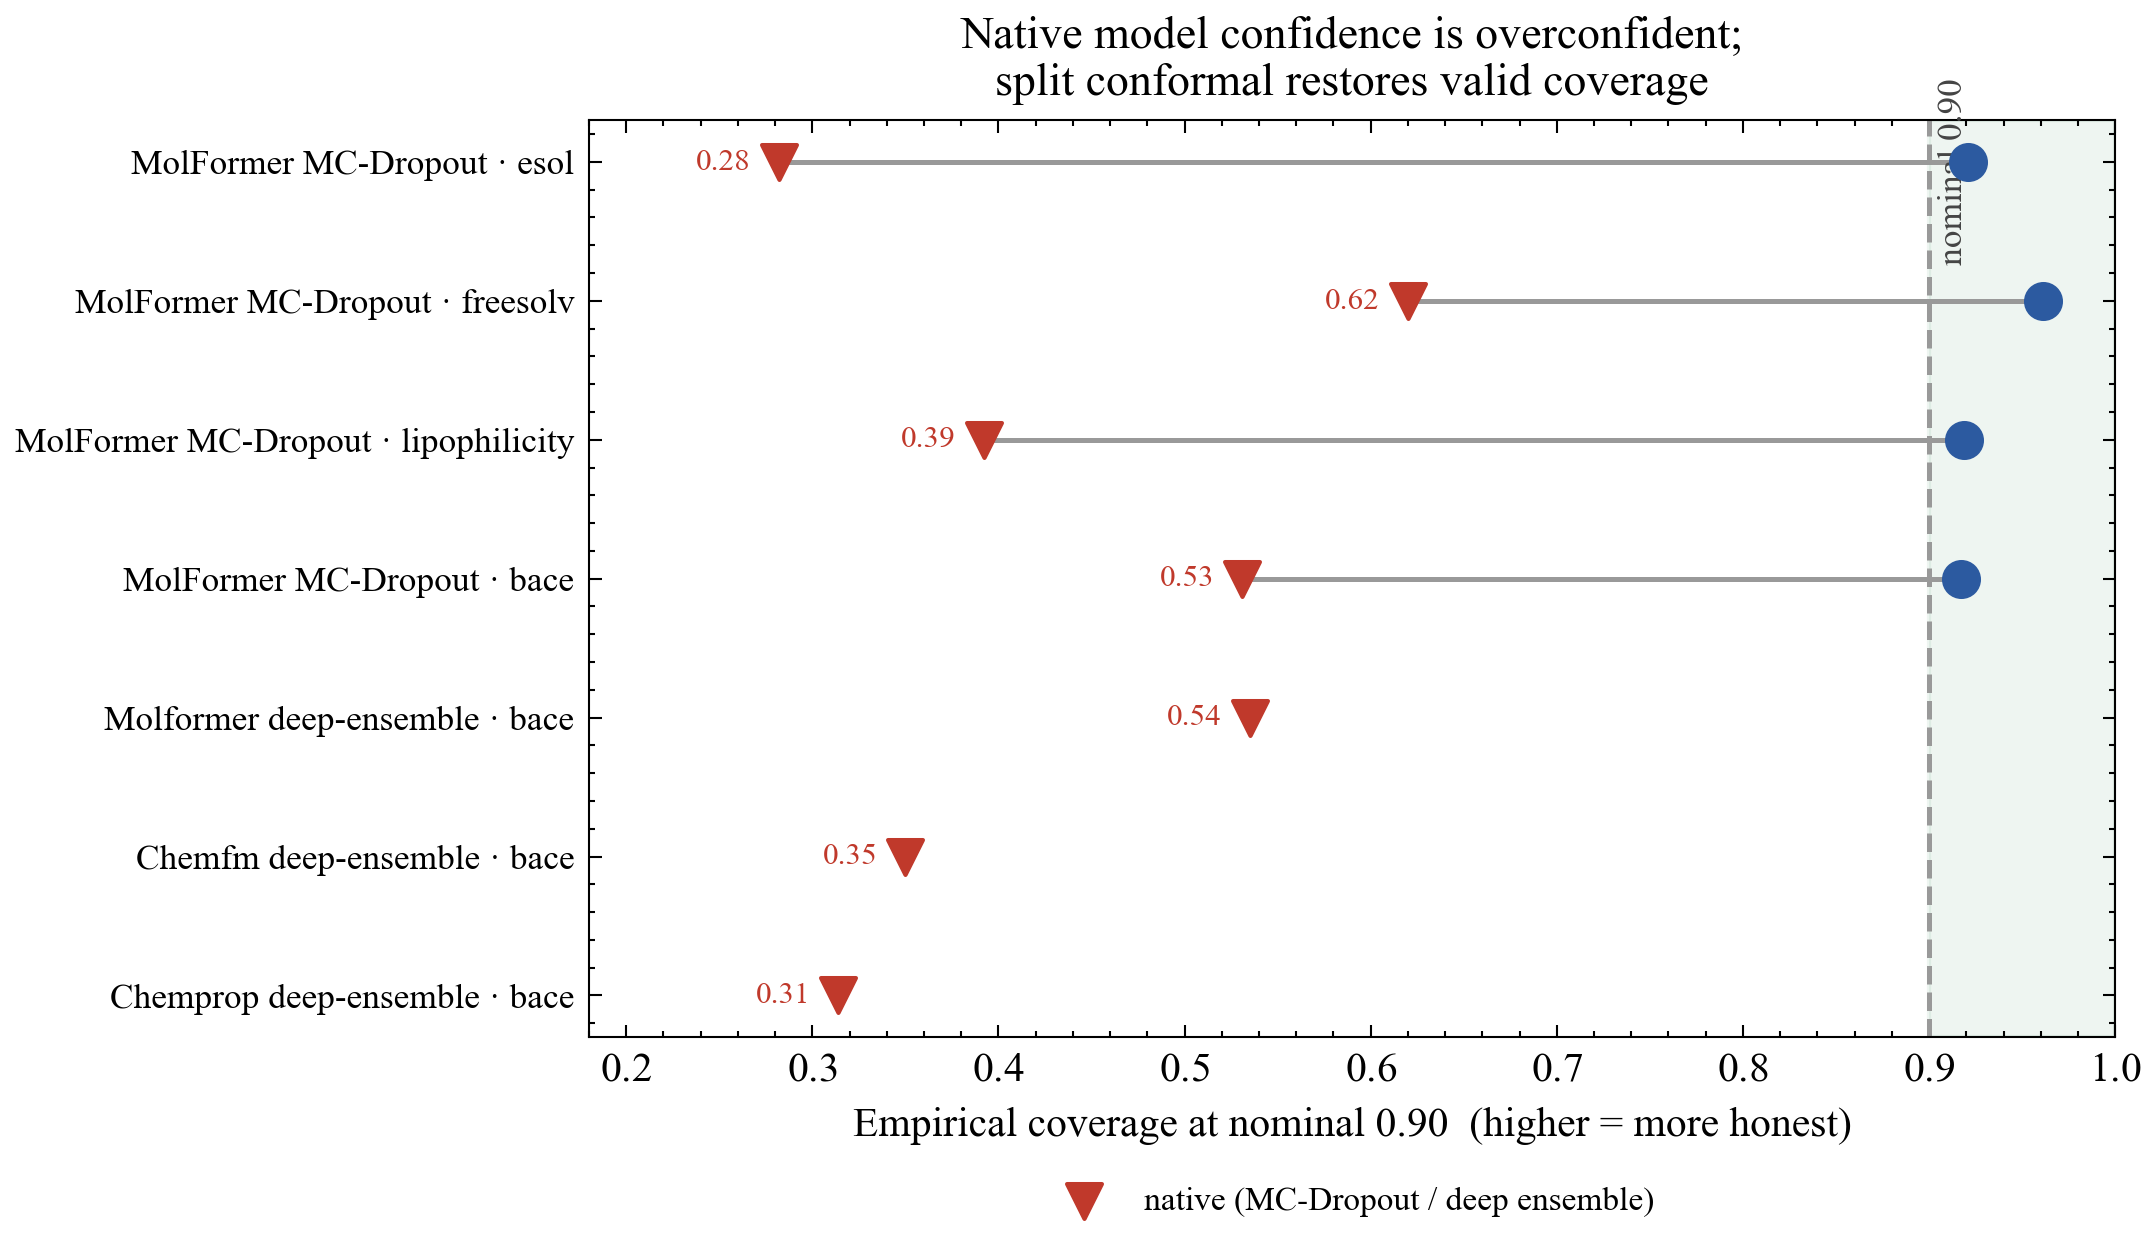
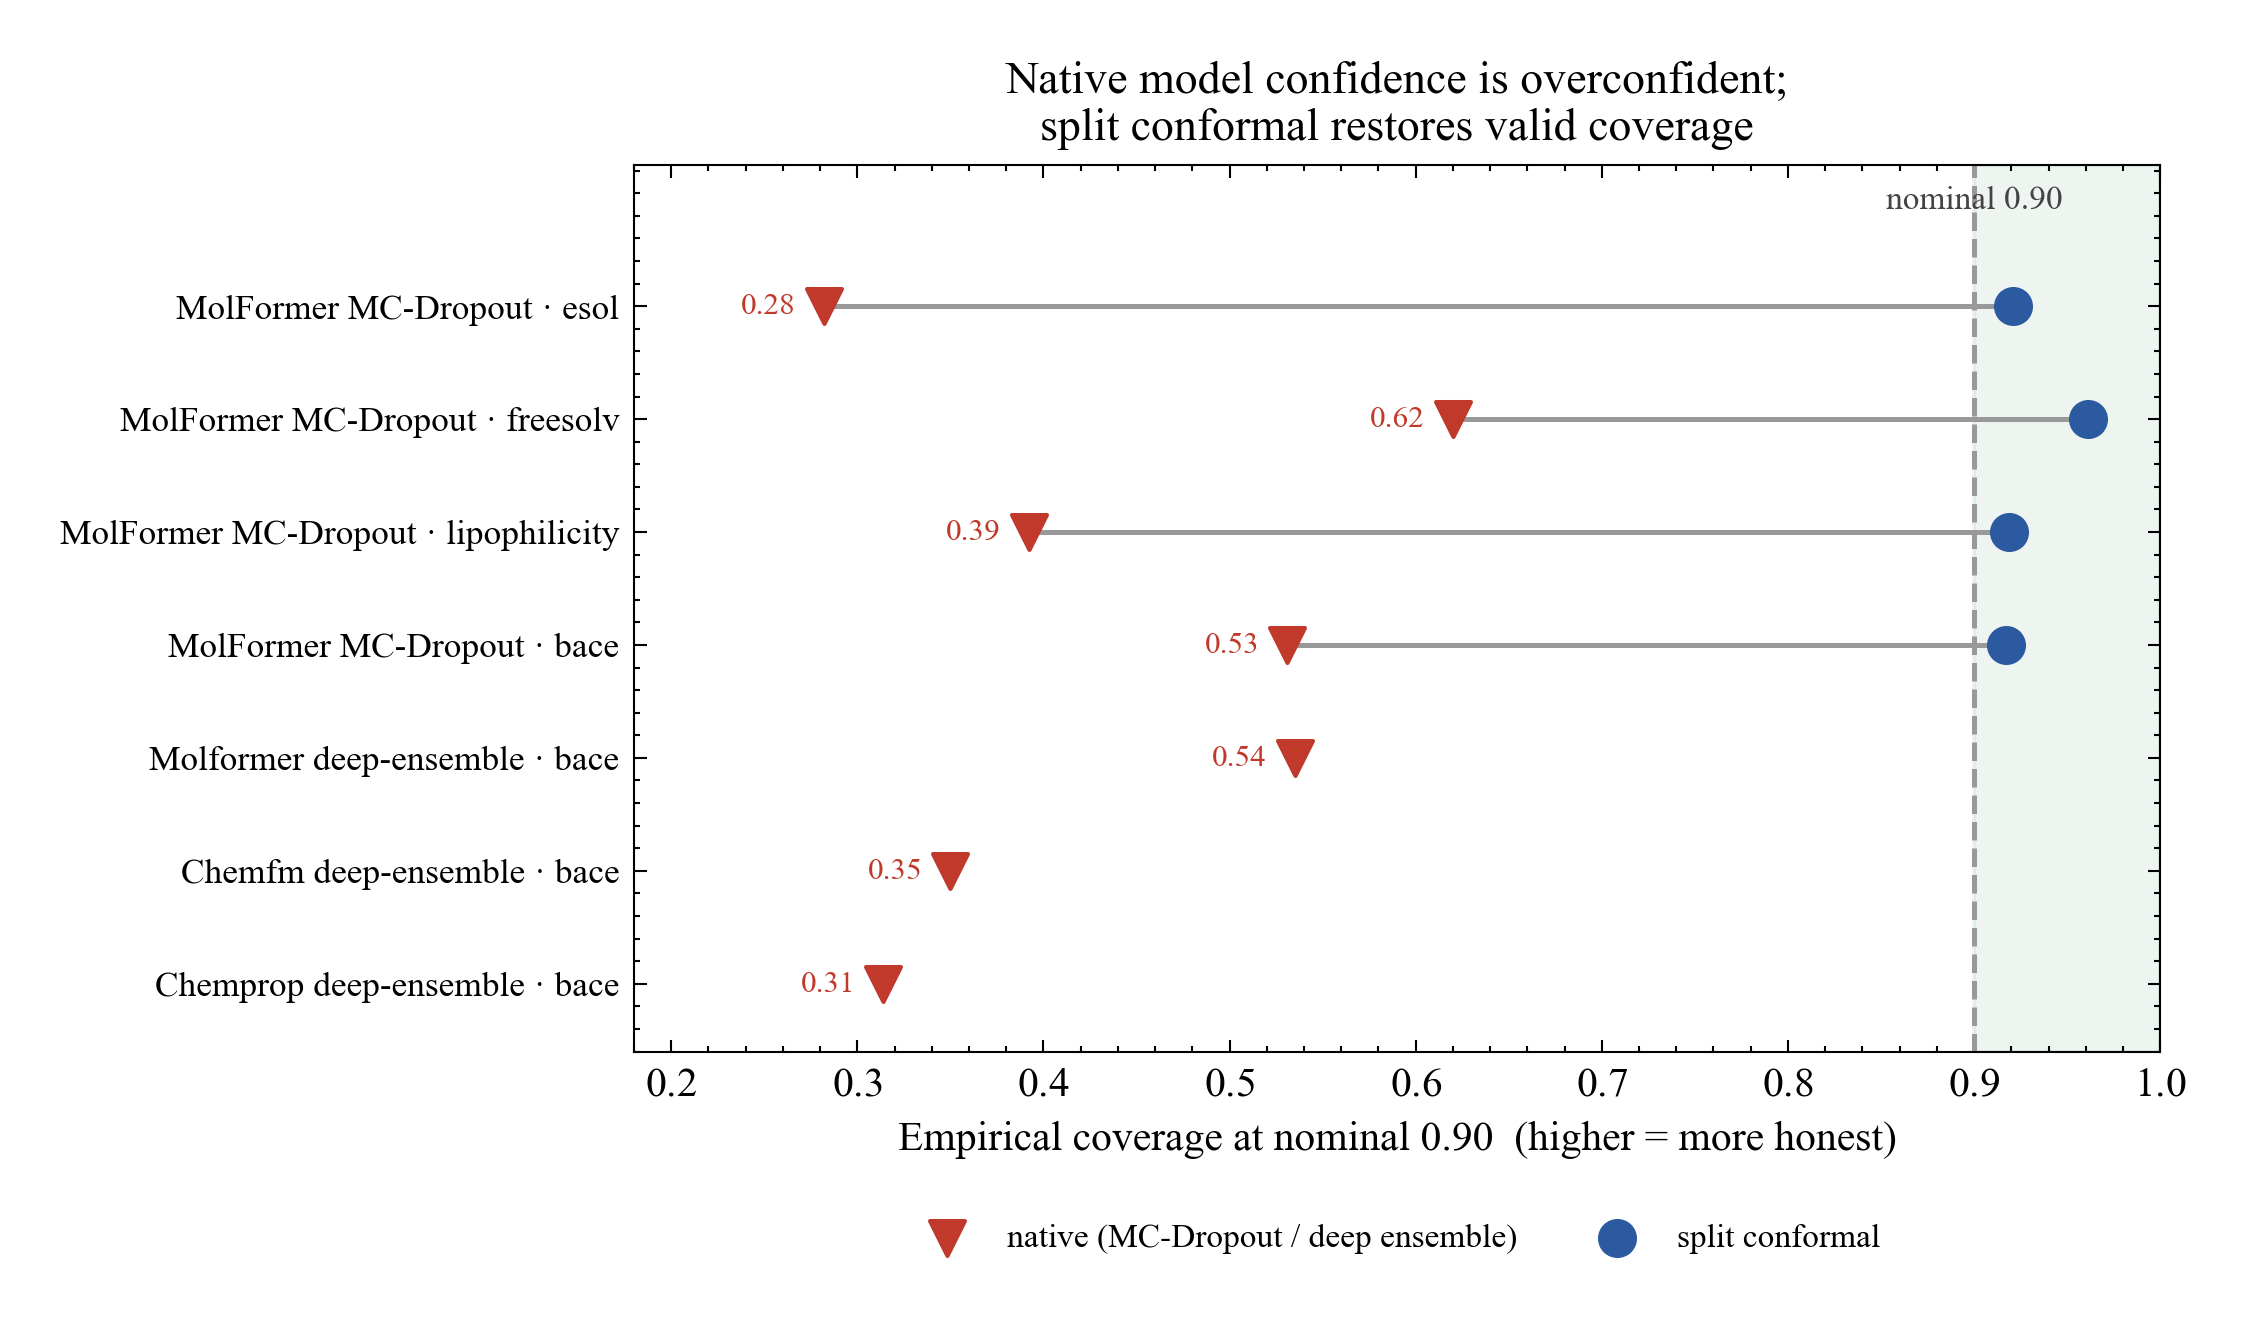
fig: fix TOC graphic layout (nominal label, legend) and add missing conformal legend entry
- Move the 'nominal 0.90' annotation above the plot (was overlapping the
  top blue conformal markers) and add top ylim headroom.
- Give the below-axes legend padding (pad_inches) so it no longer collides
  with the achemso tocentry box border.
- Fix a pre-existing bug: the 'split conformal' legend label was attached to
  i==0, but after reversing rows i==0 is a deep-ensemble row with no
  conformal point, so the blue entry never appeared; assign it to the first
  conformal marker instead.

Recompile the manuscript and resync the overleaf copy.

Assisted-by: Claude

diff --git a/scripts/make_paper_figures.py b/scripts/make_paper_figures.py
@@ -41,19 +41,22 @@ def toc_overconfidence():
     y = np.arange(len(rows))
     ax.axvspan(0.90, 1.0, color="#2E8B57", alpha=0.08)
     ax.axvline(0.90, color=GREY, ls="--", lw=1.2)
-    ax.text(0.905, len(rows) - 0.4, "nominal 0.90", fontsize=8.5, color="#444", rotation=90, va="top")
+    ax.text(0.90, len(rows) - 0.2, "nominal 0.90", fontsize=8, color="#444", ha="center", va="bottom")
+    conf_labeled = False
     for i, (lab, nat, conf) in enumerate(rows):
         if conf is not None:
             ax.plot([nat, conf], [i, i], color=GREY, lw=1.2, zorder=1)
-            ax.scatter(conf, i, s=70, color=BLUE, zorder=3, label="split conformal" if i == 0 else None)
+            ax.scatter(conf, i, s=70, color=BLUE, zorder=3, label=None if conf_labeled else "split conformal")
+            conf_labeled = True
         ax.scatter(nat, i, s=70, color=RED, marker="v", zorder=3,
                    label="native (MC-Dropout / deep ensemble)" if i == 0 else None)
         ax.text(nat - 0.015, i, f"{nat:.2f}", ha="right", va="center", fontsize=7.5, color=RED)
     ax.set_yticks(y); ax.set_yticklabels([r[0] for r in rows], fontsize=8.5)
-    ax.set_xlim(0.18, 1.0); ax.set_xlabel("Empirical coverage at nominal 0.90  (higher = more honest)")
+    ax.set_xlim(0.18, 1.0); ax.set_ylim(-0.6, len(rows) + 0.25)
+    ax.set_xlabel("Empirical coverage at nominal 0.90  (higher = more honest)")
     ax.set_title("Native model confidence is overconfident;\nsplit conformal restores valid coverage", fontsize=11)
-    ax.legend(fontsize=8, loc="upper center", bbox_to_anchor=(0.5, -0.13), ncol=2, framealpha=0.9)
-    fig.tight_layout(); fig.savefig(FIG / "toc_graphic.png", dpi=300, bbox_inches="tight"); plt.close(fig)
+    ax.legend(fontsize=8, loc="upper center", bbox_to_anchor=(0.5, -0.16), ncol=2, framealpha=0.95)
+    fig.tight_layout(); fig.savefig(FIG / "toc_graphic.png", dpi=300, bbox_inches="tight", pad_inches=0.2); plt.close(fig)
     print(f"  -> {FIG / 'toc_graphic.png'}")
 
 
